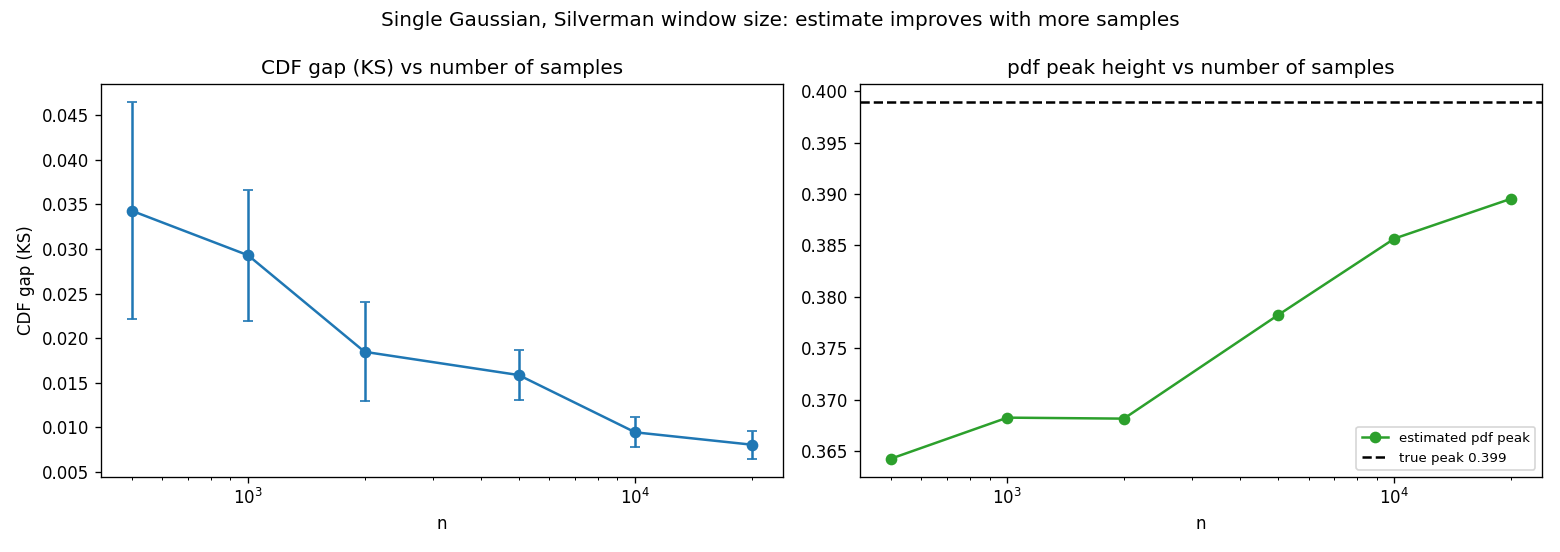
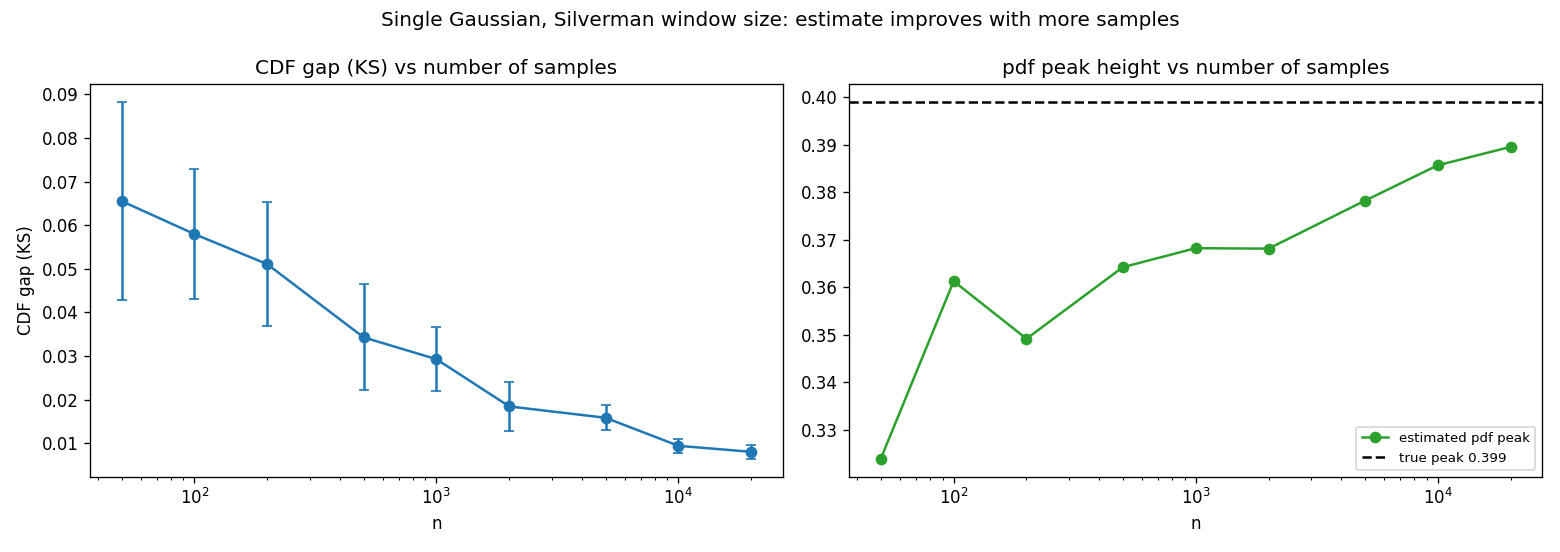
Part I report (single Gaussian) + low-sample-count study
- Extend the sample-size study down to n=50 (50,100,200,500,...): the CDF gap is
  only ~0.066 at n=50 and ~0.034 at n=500 -- the CDF is robust at tiny n because
  it is an integral (noise averages out); the density peak is the quantity that
  actually needs samples. Regenerated sample_size + progression figures.
- report/report.tex: new clean, synthetic Part I -- single Gaussian. Setup &
  notation (Parzen Window, window size, CDF = integral of the estimated pdf, the
  CDF gap), window-size choice (fixed -> adaptive -> Silverman), visual check, and
  the sample-count study incl. the low-n finding. Compiles to 4 pages.

diff --git a/report/report.tex b/report/report.tex
@@ -1,0 +1,167 @@
+\documentclass[11pt]{article}
+
+\usepackage[a4paper,margin=1in]{geometry}
+\usepackage{amsmath,amssymb}
+\usepackage{graphicx}
+\usepackage{booktabs}
+\usepackage{xcolor}
+\usepackage{hyperref}
+
+\graphicspath{{../results/}}
+\hypersetup{colorlinks=true, linkcolor=blue!50!black, urlcolor=blue!50!black}
+
+\title{Estimating a CDF with a Parzen Window\\
+\large Part I --- the single Gaussian}
+\author{Didactic study}
+\date{\today}
+
+\newcommand{\Fhat}{\widehat{F}}
+\newcommand{\fhat}{\widehat{f}}
+
+\begin{document}
+\maketitle
+
+\begin{abstract}
+We estimate the cumulative distribution function (CDF) of a known distribution from samples, using a
+\textbf{Parzen Window} estimator, and we read the density off as the derivative. Working from a
+\emph{known} distribution lets us score every estimate against the exact truth. This first part builds
+the estimator on the simplest case --- a single Gaussian --- one ingredient at a time: we choose the
+\textbf{window size}, verify the fit, and study how the estimate behaves with the number of samples.
+\end{abstract}
+
+\section{Setup and notation}
+
+We draw samples $x_1,\dots,x_n$ from a known distribution and estimate its CDF $F(x)=\Pr[X\le x]$ and
+its density $f=F'$. A \textbf{Parzen Window} estimator places one smooth window on each sample and
+averages them. We use a logistic window, chosen so that the \emph{integral} of the window is the
+logistic sigmoid $\sigma$; the estimated CDF is then the integral of the estimated density, available
+in closed form:
+\begin{equation}
+  \fhat(x)=\frac1n\sum_{i=1}^n \frac1h\,\sigma'\!\Big(\frac{x-x_i}{h}\Big),
+  \qquad
+  \Fhat(x)=\int_{-\infty}^x \fhat
+          =\frac1n\sum_{i=1}^n \sigma\!\Big(\frac{x-x_i}{h}\Big).
+  \label{eq:parzen}
+\end{equation}
+The parameter $h>0$ is the \textbf{window size}: small $h$ gives a sharp, noisy estimate, large $h$ a
+smooth, blurry one. We score an estimate by the \textbf{CDF gap} --- the Kolmogorov--Smirnov distance
+$\max_x|F(x)-\Fhat(x)|$, the largest vertical gap between the estimated and true CDF (smaller is
+better) --- and we also track the recovered density's peak height as a finer check.
+
+\section{The single Gaussian $N(0,1)$}
+
+\subsection{Choosing the window size}
+
+We start as simply as possible ($n=2000$) and add one ingredient at a time, each motivated by the
+previous shortcoming (Table~\ref{tab:window}, Figure~\ref{fig:window}).
+
+\begin{table}[h]
+  \centering
+  \caption{Window-size strategies on $N(0,1)$, $n=2000$.}
+  \label{tab:window}
+  \begin{tabular}{llc}
+    \toprule
+    Strategy & Window size & CDF gap \\
+    \midrule
+    fixed, trivial value      & $1.0$            & $0.157$ \\
+    adaptive (per-point), pilot $=1.0$ & mean $1.0$ & $0.151$ \\
+    \textbf{Silverman (data-driven)}   & $0.196$    & $\mathbf{0.020}$ \\
+    \bottomrule
+  \end{tabular}
+\end{table}
+
+\begin{itemize}
+  \item \textbf{A fixed window of size $1.0$ over-smooths.} The estimated density is far too wide and
+  low (peak $0.21$ vs the true $0.40$): the logistic window of ``size one'' is itself broad. CDF gap
+  $0.157$.
+  \item \textbf{Making the window adaptive does not rescue a too-large pilot.} Per-point window sizes
+  built from the fixed pilot barely shrink in the dense centre and only widen in the tails (they came
+  out at mean $1.0$, range $0.93$--$1.91$), so the over-smoothing remains. CDF gap $0.151$.
+  \item \textbf{A data-driven global window size (Silverman) solves it.} Window size $0.196$ brings
+  the gap to $0.020$; estimate and truth coincide. This is our estimator for the single Gaussian.
+\end{itemize}
+
+\begin{figure}[h]
+  \centering
+  \includegraphics[width=\textwidth]{parzen_gaussian_window_strategies.png}
+  \caption{Window-size strategies. The fixed and adaptive windows over-smooth (red, orange); the
+  data-driven Silverman window (green) matches the truth (black) for both density and CDF.}
+  \label{fig:window}
+\end{figure}
+
+\subsection{Visual check}
+
+Figure~\ref{fig:check} inspects the chosen (Silverman) estimate. The CDF curves are visually
+indistinguishable; the error $|\Fhat-F|$ peaks at $0.020$ near the shoulders. The only perceptible
+imperfection is the density peak, estimated slightly low ($0.37$ vs $0.40$) --- a residual of
+smoothing that the next subsection resolves.
+
+\begin{figure}[h]
+  \centering
+  \includegraphics[width=\textwidth]{parzen_gaussian_silverman_check.png}
+  \caption{Visual check of the Silverman estimate ($n=2000$): density vs samples (left), CDF vs truth
+  (centre, overlapping), and the CDF error with its maximum (the CDF gap) marked (right).}
+  \label{fig:check}
+\end{figure}
+
+\subsection{How many samples do we need?}
+
+We sweep the sample count (Silverman window, averaged over $5$ seeds; Table~\ref{tab:n},
+Figures~\ref{fig:nsweep}--\ref{fig:nprog}). Two things stand out.
+
+\begin{table}[h]
+  \centering
+  \caption{Effect of the sample count on $N(0,1)$ (Silverman window, mean over $5$ seeds).}
+  \label{tab:n}
+  \begin{tabular}{rccc}
+    \toprule
+    $n$ & window size & CDF gap & density peak (true $0.399$) \\
+    \midrule
+    50     & 0.397 & 0.066 & 0.324 \\
+    100    & 0.332 & 0.058 & 0.361 \\
+    200    & 0.312 & 0.051 & 0.349 \\
+    500    & 0.256 & 0.034 & 0.364 \\
+    2000   & 0.197 & 0.019 & 0.368 \\
+    20000  & 0.124 & 0.008 & 0.390 \\
+    \bottomrule
+  \end{tabular}
+\end{table}
+
+\begin{itemize}
+  \item \textbf{The CDF is easy, even with very few samples.} At $n=50$ the CDF gap is already only
+  $\approx 0.066$, and by $n=500$ it is $0.034$. The reason is structural: the CDF is the
+  \emph{integral} of the density (Eq.~\ref{eq:parzen}), and integration averages out the
+  finite-sample noise --- so the CDF estimate is far more forgiving than the density.
+  \item \textbf{The density (peak) is the demanding quantity.} It is what needs samples: the peak
+  climbs from $0.32$ ($n=50$) to $0.39$ ($n=20000$), closing the gap to the true $0.399$ only with
+  abundant data. Convergence is slow, the expected Silverman rate (window size $\propto n^{-1/5}$).
+\end{itemize}
+
+\begin{figure}[h]
+  \centering
+  \includegraphics[width=\textwidth]{parzen_gaussian_sample_size.png}
+  \caption{CDF gap (left) and density peak (right) versus the number of samples; error bars over
+  $5$ seeds. Both improve with $n$; the density peak approaches the true $0.399$.}
+  \label{fig:nsweep}
+\end{figure}
+
+\begin{figure}[h]
+  \centering
+  \includegraphics[width=\textwidth]{parzen_gaussian_sample_size_progression.png}
+  \caption{The estimate sharpening with more samples (black = truth, green = Silverman estimate).
+  Top row: density; bottom row: CDF. The CDF is already accurate at $n=50$; the density peak fills in
+  as $n$ grows.}
+  \label{fig:nprog}
+\end{figure}
+
+\section{Summary of Part I}
+
+On the single Gaussian, a Parzen Window with a data-driven \textbf{Silverman window size} estimates
+the CDF essentially exactly (gap $\approx 0.02$ at $n=2000$, $\approx 0.008$ at $n=20000$). The CDF is
+robust even at tiny sample counts because it is an integral; the density's peak is the quantity that
+demands data. The next part carries this estimator to harder targets --- mixtures of Gaussians.
+
+\paragraph{Reproducibility.} \texttt{python scripts/parzen\_gaussian.py} regenerates every figure and
+number above; the running log is in \texttt{docs/study.md}.
+
+\end{document}

diff --git a/scripts/parzen_gaussian.py b/scripts/parzen_gaussian.py
@@ -95,7 +95,7 @@ def silverman_check(win_silv):
 
 def sample_size_sweep(seeds=range(5)):
     """How the Silverman estimate improves with the number of samples (mean +/- std over seeds)."""
-    ns = [500, 1000, 2000, 5000, 10000, 20000]
+    ns = [50, 100, 200, 500, 1000, 2000, 5000, 10000, 20000]
     grid = np.linspace(-6, 6, 1000)                 # coarser grid keeps memory modest at large n
     true_cdf = mix.cdf(grid)
     true_peak = float(mix.pdf(np.array([0.0]))[0])   # ~0.3989
@@ -126,7 +126,7 @@ def sample_size_sweep(seeds=range(5)):
 
 def sample_size_progression():
     """Progressive view: the Silverman estimate (pdf top row, CDF bottom row) at growing n."""
-    ns = [500, 1000, 2000, 5000, 10000, 20000]
+    ns = [50, 100, 200, 500, 2000, 20000]
     fig, axes = plt.subplots(2, len(ns), figsize=(19, 6), sharex=True)
     for j, n in enumerate(ns):
         samples = mix.sample(n, np.random.default_rng(SEED))
